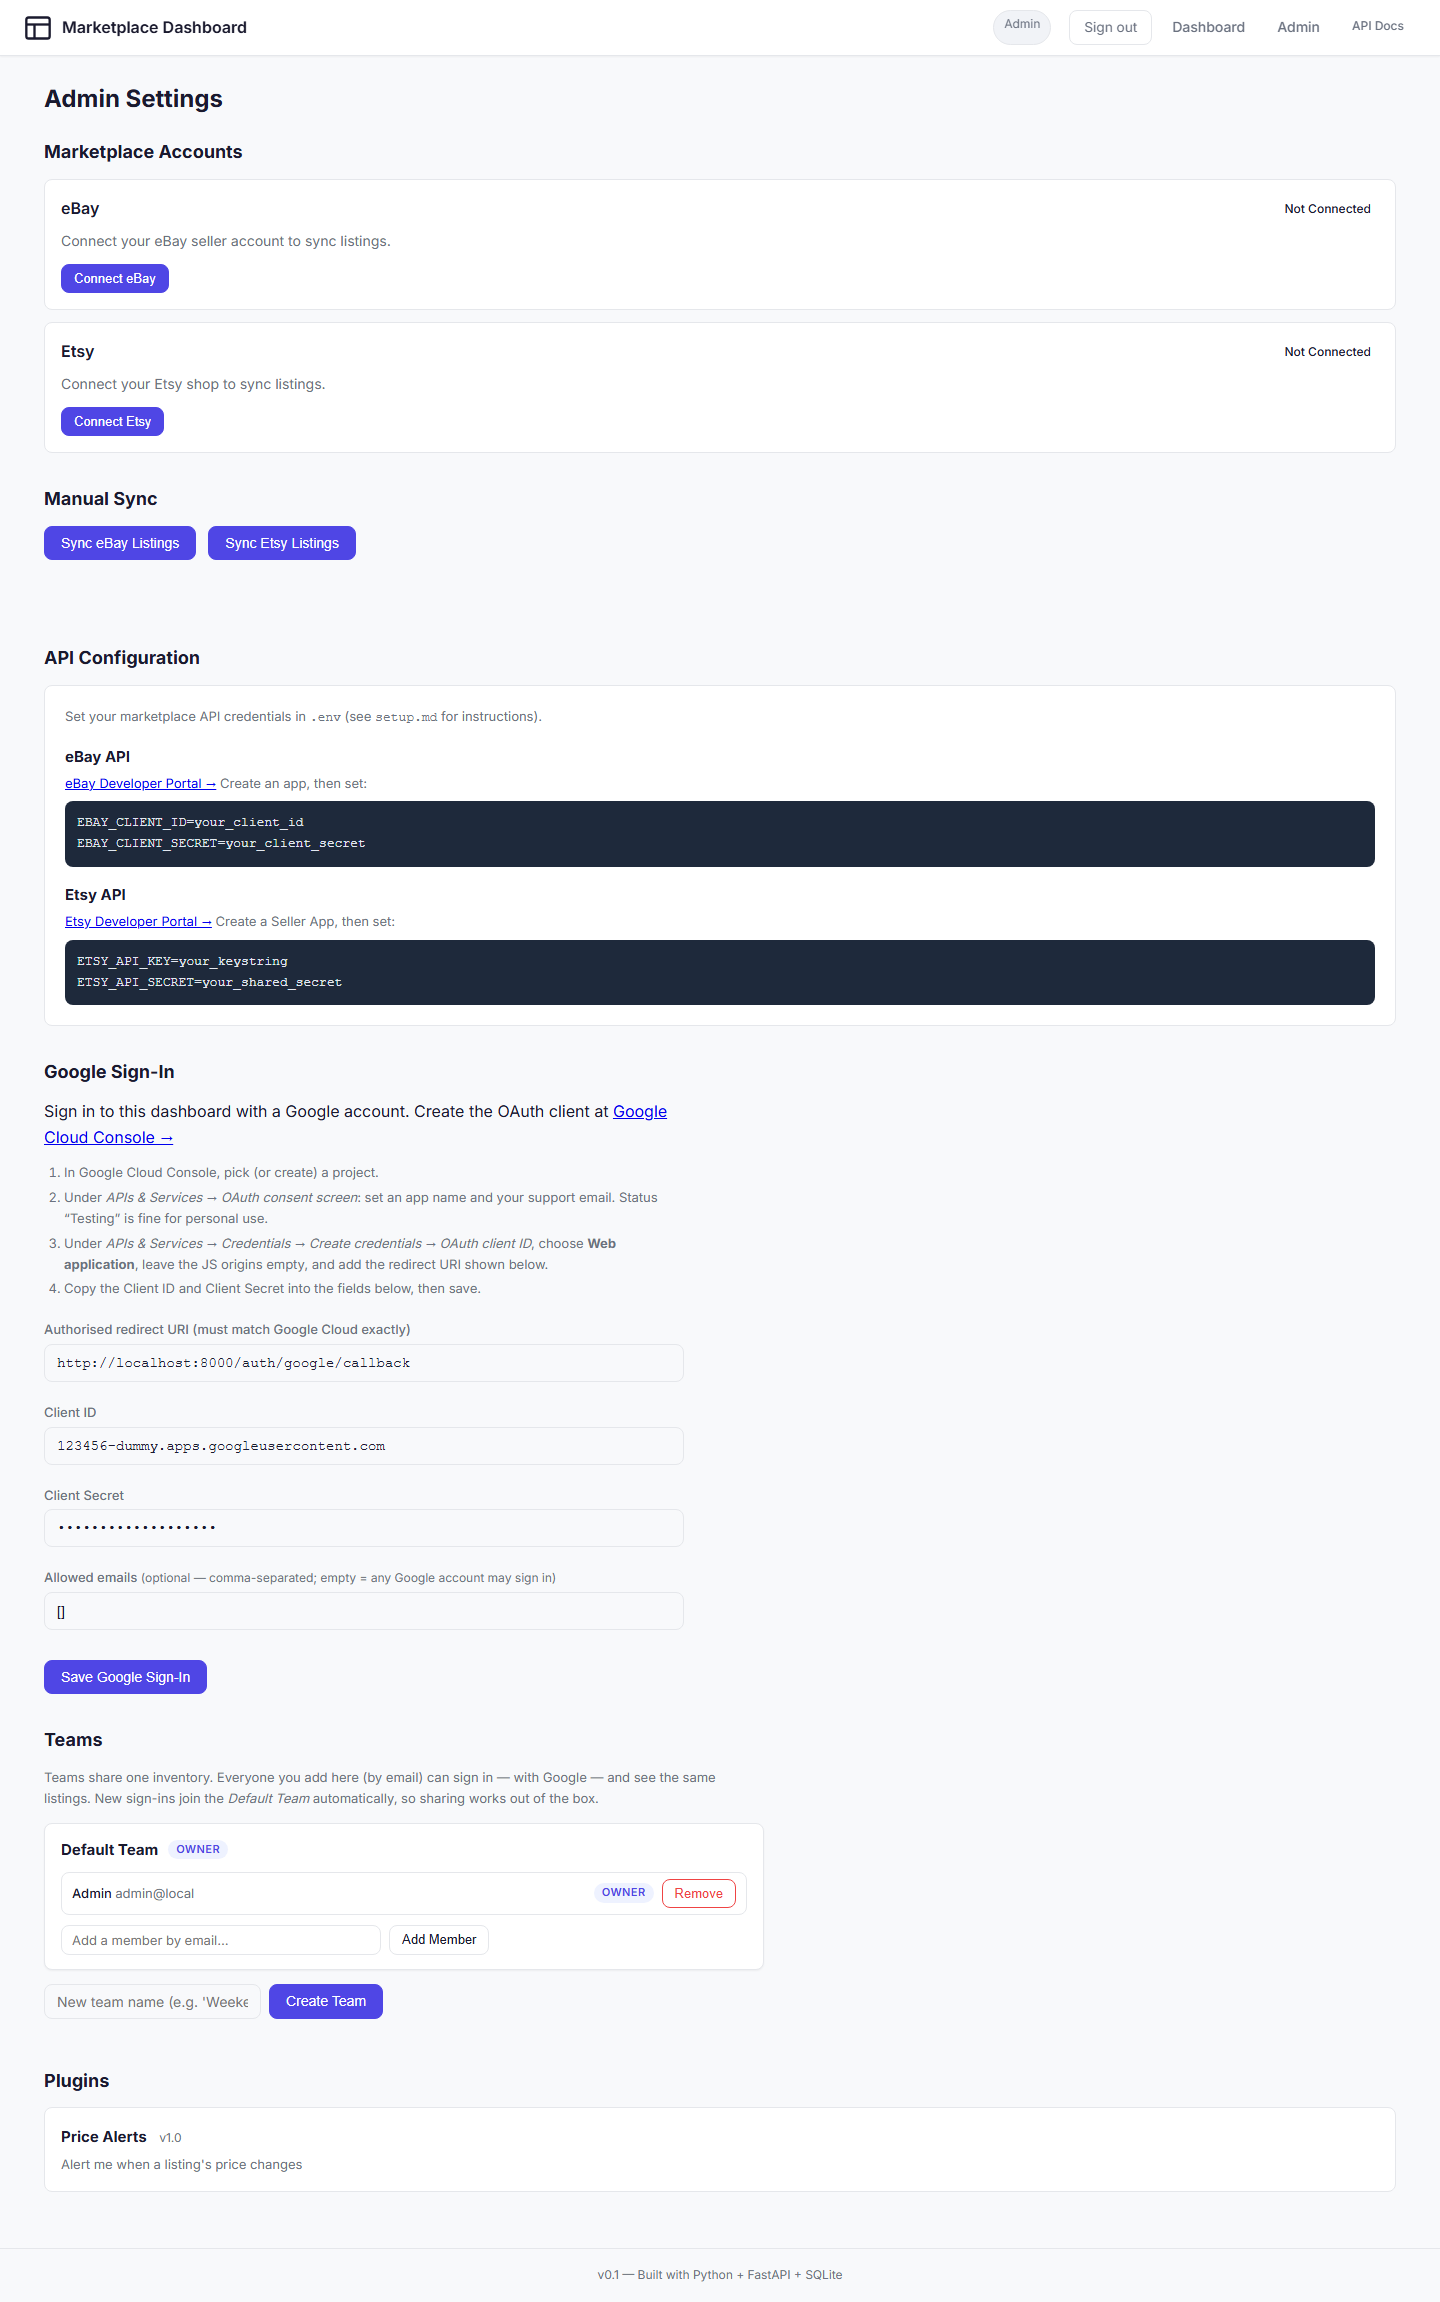
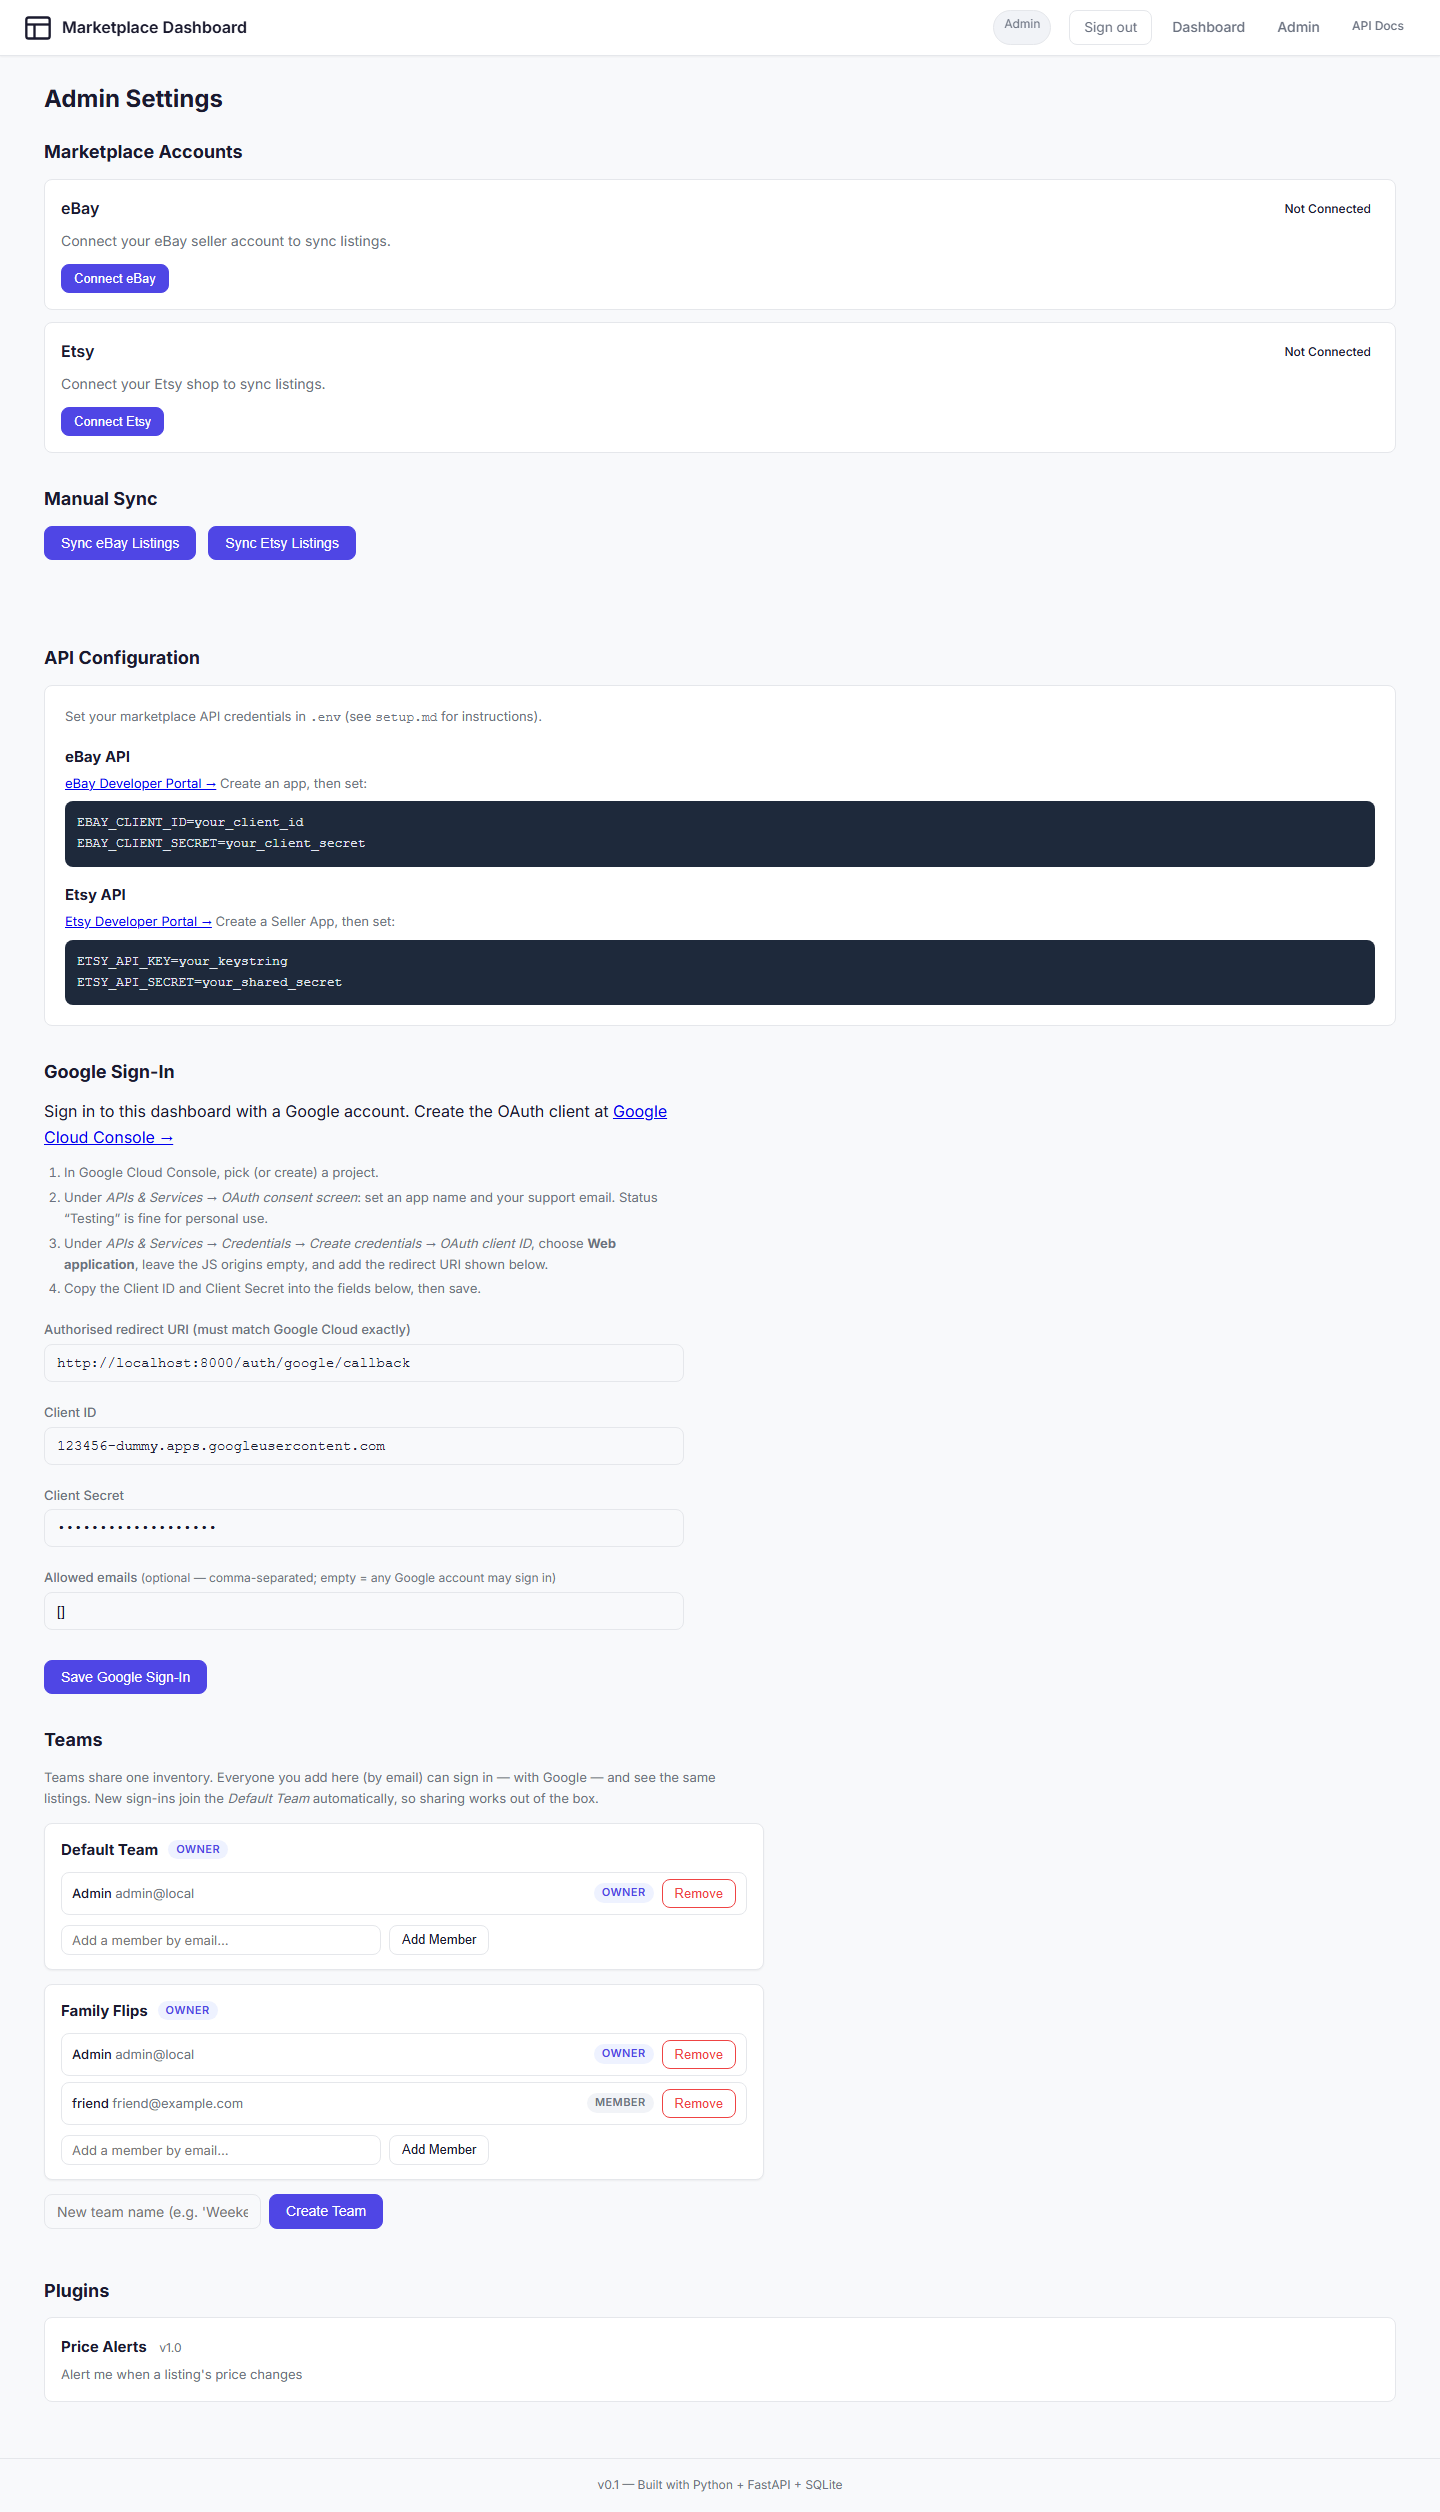
Fix wiring-test false positive (runtime var matched as literal id); refresh docs screenshots

diff --git a/tests/test_ui_wiring.py b/tests/test_ui_wiring.py
@@ -19,7 +19,7 @@ ids = set(re.findall(r'id="([^"]+)"', html))
 missing = []
 for js in ["app.js", "dashboard.js", "admin.js"]:
     src = (ROOT / "static/js" / js).read_text(encoding="utf-8")
-    refs = set(re.findall(r"getElementById\(['\"]?([\w-]+)", src))
+    refs = set(re.findall(r"getElementById\(['\"]([\w-]+)['\"]", src))
     for m in refs:
         if m not in ids:
             missing.append((js, m))
